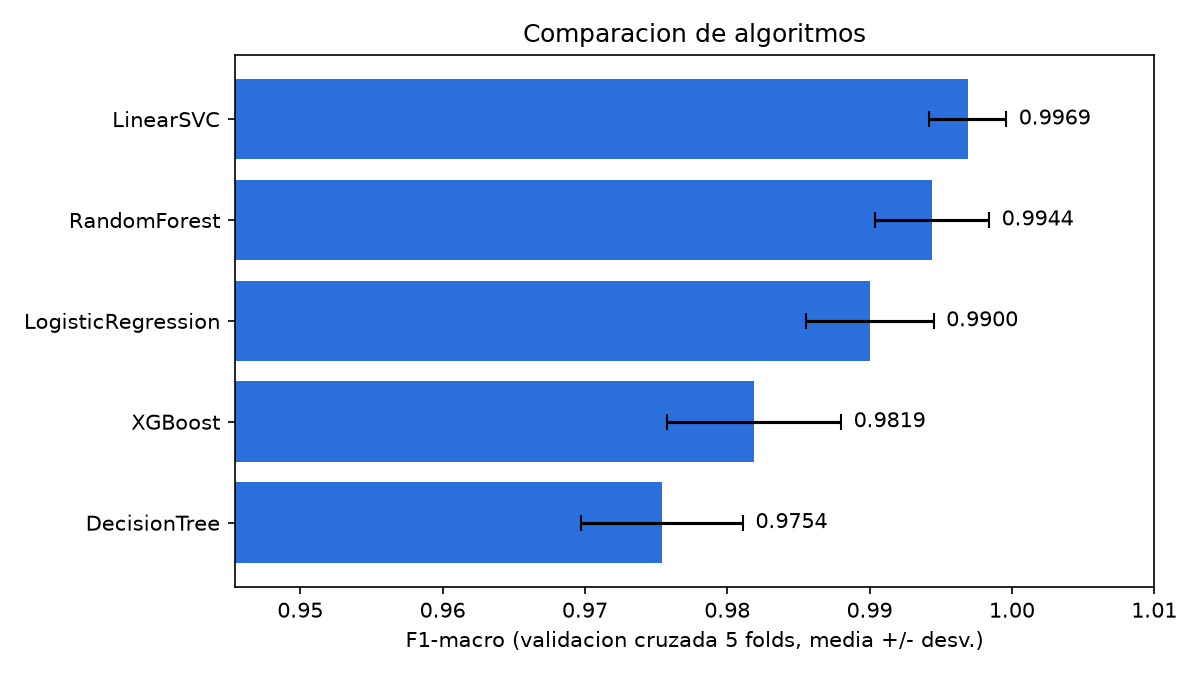
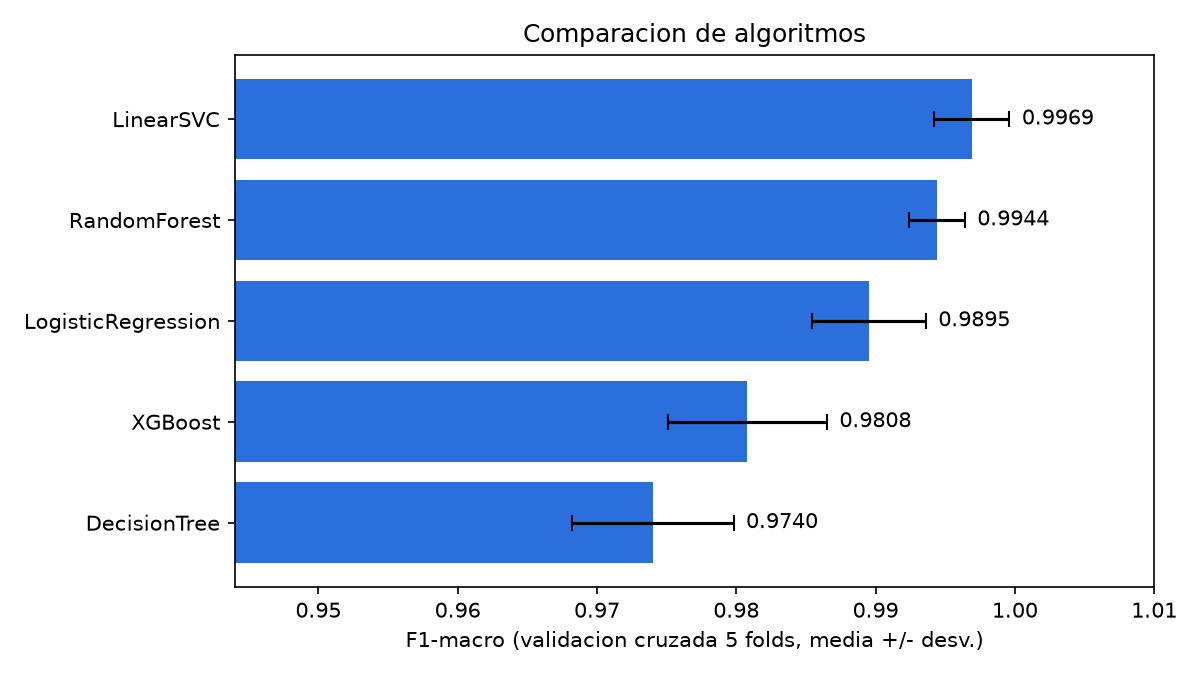
fase7: API FastAPI (validacion, API key, limites, logs sin datos), Dockerfile con usuario no root, docker compose con MLflow server, entrenamiento y API; dependencias fijadas

diff --git a/src/api/main.py b/src/api/main.py
@@ -1,0 +1,125 @@
+"""API REST para clasificar materiales por familia.
+
+Endpoints:
+  GET  /health      estado del servicio y del modelo (sin autenticacion)
+  GET  /model-info  algoritmo, clases y fecha de entrenamiento
+  POST /predict     clasifica de 1 a API_MAX_ITEMS materiales por solicitud
+
+Variables de entorno:
+  MODEL_PATH     ruta del modelo (por defecto models/champion.joblib)
+  API_KEY        si se define, /model-info y /predict exigen el header X-API-Key
+  API_MAX_ITEMS  maximo de materiales por solicitud (por defecto 100)
+
+Por privacidad, los registros (logs) solo guardan cuantos materiales llegaron y
+cuanto tardo la respuesta; nunca el texto de los materiales.
+Documentacion interactiva: http://127.0.0.1:8000/docs
+"""
+from __future__ import annotations
+
+import logging
+import os
+import secrets
+import time
+from contextlib import asynccontextmanager
+
+from fastapi import Depends, FastAPI, Header, HTTPException
+from pydantic import BaseModel, Field
+
+from src.models.predict import Clasificador
+
+logger = logging.getLogger("api")
+logging.basicConfig(level=logging.INFO, format="%(asctime)s %(levelname)s %(message)s")
+
+MAX_ITEMS = int(os.getenv("API_MAX_ITEMS", "100"))
+_state: dict = {}
+
+
+@asynccontextmanager
+async def lifespan(app: FastAPI):
+    """Carga el modelo una sola vez al iniciar el servicio."""
+    try:
+        _state["clf"] = Clasificador(os.getenv("MODEL_PATH") or None)
+        logger.info("Modelo cargado: %s", _state["clf"].info)
+    except Exception as exc:  # el servicio arranca igual y /health informa el problema
+        _state["error"] = str(exc)
+        logger.error("No se pudo cargar el modelo: %s", exc)
+    yield
+    _state.clear()
+
+
+app = FastAPI(
+    title="Clasificador de materiales",
+    description="Predice la familia de un material a partir de su descripcion.",
+    version="1.0.0",
+    lifespan=lifespan,
+)
+
+
+class Material(BaseModel):
+    texto_breve: str = Field(..., min_length=3, max_length=200,
+                             examples=["GUANTE DE NITRILO TALLA L"])
+    texto_largo: str = Field("", max_length=1000)
+    marca: str = Field("SIN_MARCA", max_length=60)
+    um: str = Field("", max_length=10, examples=["par"])
+    precio_usd: float = Field(0.0, ge=0, le=10_000_000)
+    filas_me2m: int = Field(0, ge=0, le=1_000_000)
+    items_ariba: int = Field(0, ge=0, le=1_000_000)
+
+
+class SolicitudPrediccion(BaseModel):
+    materiales: list[Material] = Field(..., min_length=1, max_length=MAX_ITEMS)
+
+
+class Alternativa(BaseModel):
+    familia: str
+    probabilidad: float
+
+
+class Prediccion(BaseModel):
+    familia: str
+    confianza: float
+    alternativas: list[Alternativa]
+
+
+class RespuestaPrediccion(BaseModel):
+    modelo: dict
+    predicciones: list[Prediccion]
+
+
+def verificar_api_key(x_api_key: str | None = Header(default=None)) -> None:
+    """Si API_KEY esta definida, exige el header X-API-Key con ese valor."""
+    esperada = os.getenv("API_KEY")
+    if esperada and not (x_api_key and secrets.compare_digest(x_api_key, esperada)):
+        raise HTTPException(status_code=401, detail="API key invalida o ausente")
+
+
+def _clasificador() -> Clasificador:
+    if "clf" not in _state:
+        raise HTTPException(status_code=503, detail="Modelo no disponible")
+    return _state["clf"]
+
+
+@app.get("/health")
+def health() -> dict:
+    return {"status": "ok" if "clf" in _state else "sin_modelo",
+            "modelo_cargado": "clf" in _state}
+
+
+@app.get("/model-info", dependencies=[Depends(verificar_api_key)])
+def model_info() -> dict:
+    clf = _clasificador()
+    return {**clf.info, "clases": clf.classes, "max_items_por_solicitud": MAX_ITEMS}
+
+
+@app.post("/predict", response_model=RespuestaPrediccion,
+          dependencies=[Depends(verificar_api_key)])
+def predict(solicitud: SolicitudPrediccion) -> RespuestaPrediccion:
+    clf = _clasificador()
+    t0 = time.perf_counter()
+    try:
+        preds = clf.predecir([m.model_dump() for m in solicitud.materiales])
+    except ValueError as exc:
+        raise HTTPException(status_code=422, detail=str(exc)) from exc
+    logger.info("predict: %d materiales en %.1f ms",
+                len(solicitud.materiales), (time.perf_counter() - t0) * 1000)
+    return RespuestaPrediccion(modelo=clf.info, predicciones=preds)

diff --git a/src/models/tracking.py b/src/models/tracking.py
@@ -1,4 +1,4 @@
-"""Registro de experimentos y modelos en MLflow.
+"""Registro de experimentos y modelos en MLflow.
 
 Por cada entrenamiento crea un run padre con parametros, metricas, artefactos
 (config, reportes, graficas) y el modelo con firma (signature) y ejemplo de
@@ -14,12 +14,15 @@ como AppLocker), se avisa y el pipeline sigue: el modelo ya quedo en models/.
 """
 from __future__ import annotations
 
+import os
 import platform
 import subprocess
 from pathlib import Path
 
 
 def _git_commit() -> str:
+    if os.environ.get("GIT_COMMIT"):  # dentro de Docker no hay git: se pasa por variable
+        return os.environ["GIT_COMMIT"]
     try:
         out = subprocess.run(["git", "rev-parse", "--short", "HEAD"],
                              capture_output=True, text=True, timeout=5)
@@ -83,7 +86,9 @@ def log_run(config: dict, result: dict, artifacts: list[Path], register: bool = 
                       else f"{experiment}-{nivel}")
 
     try:
-        mlflow.set_tracking_uri(cfg.get("tracking_uri", "sqlite:///mlflow.db"))
+        # MLFLOW_TRACKING_URI (p. ej. el servidor de docker compose) tiene prioridad
+        mlflow.set_tracking_uri(os.environ.get("MLFLOW_TRACKING_URI")
+                                or cfg.get("tracking_uri", "sqlite:///mlflow.db"))
         mlflow.set_experiment(experiment)
 
         with mlflow.start_run(run_name=f"{m['champion']}-{m['feature_set']}") as run:
